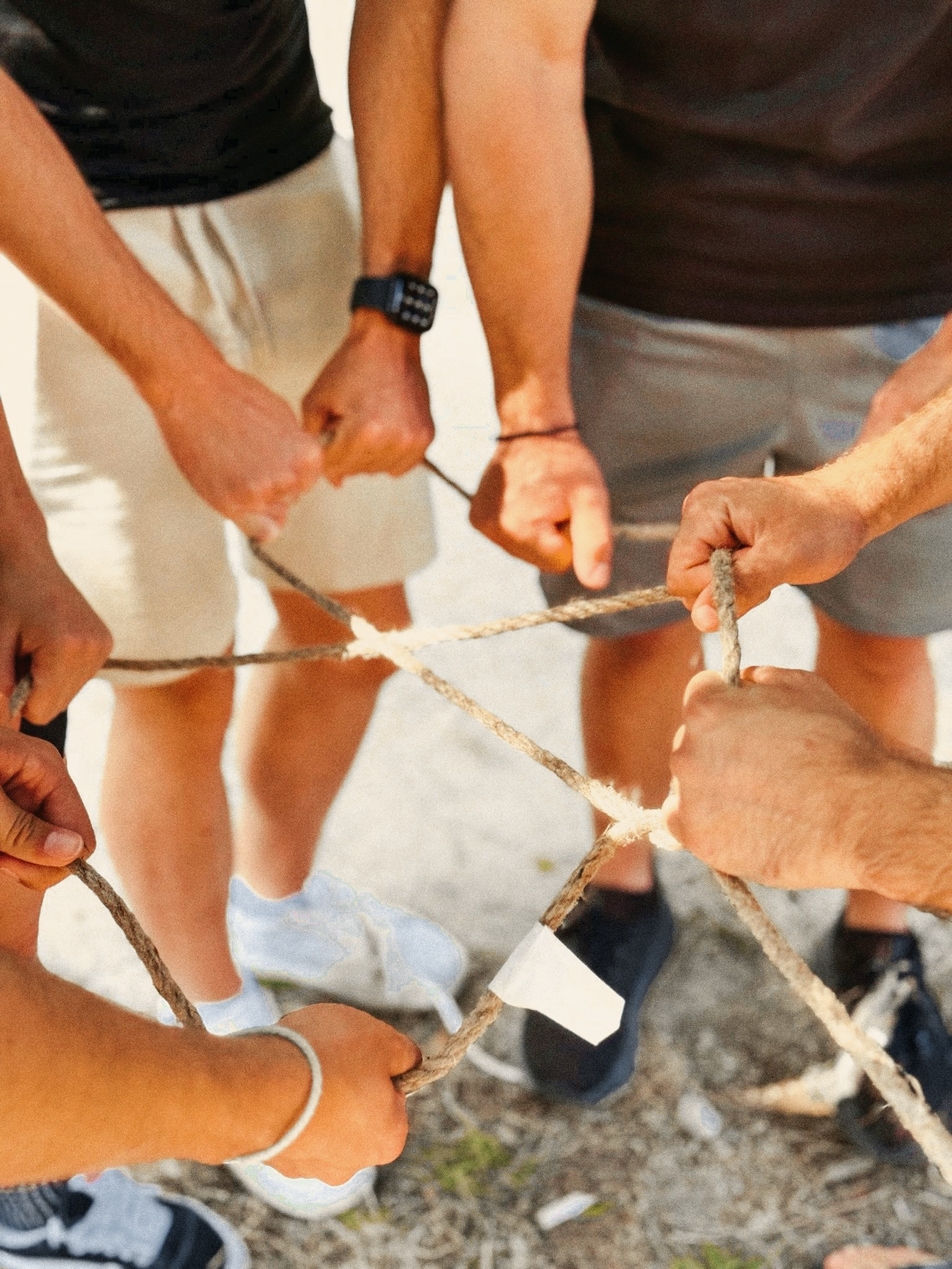
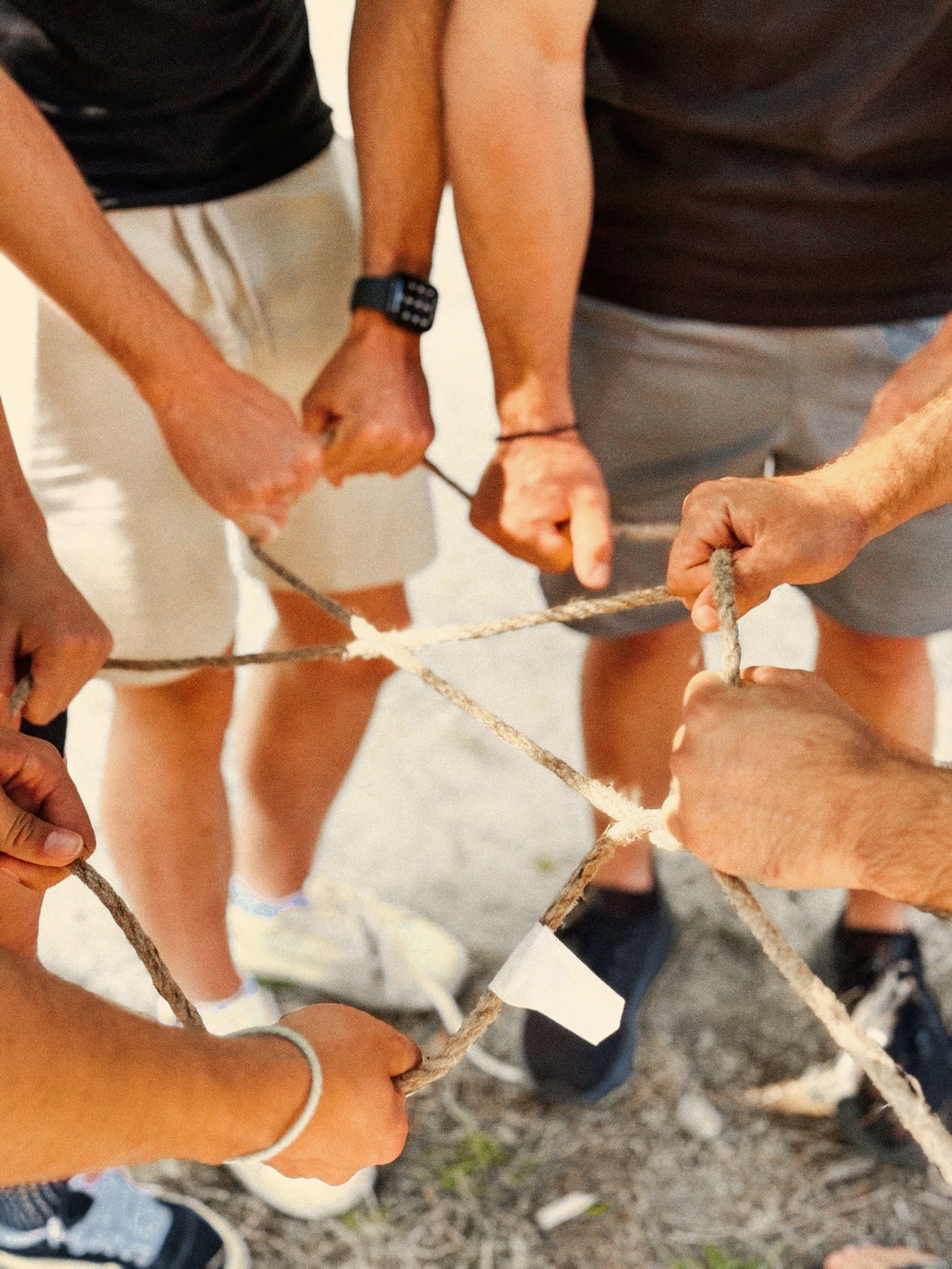
fix(photos): correct the grade's mechanisms, not its strength
Three defects survived the last pass, all found on the built page at
display scale rather than in 1:1 crops. A strength ladder settled that
none of them was an amplitude problem: the fabric contours and the canopy
clumping are both present at 2x, the lowest rung the strength axis has.

- Sky membership saturated at 12.5% chroma, so white fabric in open shade,
  hair and pale walls read as fully sky. Membership gates three moves at
  once, so wherever it flickered across a surface the surface split into
  hard cream and blue camps. The chroma gate now ramps between where those
  surfaces sit and where real sky sits.
- The near-neutral guard's hue unification painted those camps rather than
  containing them, and is removed; its chroma cap and the separate 2.6x
  amplification ceiling collapse into one law with a fixed headroom at the
  neutral end, where a pure ratio inherits the source's own quantisation.
- The split-tone targeted a fixed level, so on a frame whose shadows sit
  below it the move lifted rather than toned — the hero canopy's deepest
  fifth was dragged toward a mid-dark green, raising compression noise into
  view. Both targets now follow the pixel's own luminance.
- The shadow lift moves after the contrast curve, where it is a floor the
  sigmoid cannot pull back through.
- hero-1 carries the set's one per-shot trim, so the About mosaic's centre
  tile sits in the same hour as the six around it.

diff --git a/design/PHOTO-GRADE.md b/design/PHOTO-GRADE.md
@@ -75,10 +75,10 @@ wash and the backdrop is glass at 18%/28px — the grade barely reads there.
 ## The three candidates
 
 All three live as named functions in `scripts/grade-photos.mjs` and share one
-pixel pipeline: white balance → tone curve (lift/gamma/soft shoulder) →
-sigmoid contrast → hue-band moves in HSV (raised-cosine falloff, skin
-protected) → vibrance → split-tone. Each defines a base look plus per-group
-corrections. They are three points of view, not three intensities:
+pixel pipeline: white balance → tone curve (gamma/soft shoulder) → sigmoid
+contrast → black point → hue-band moves in HSV (raised-cosine falloff, skin
+protected) → vibrance → chroma ceiling → split-tone. Each defines a base look
+plus per-group corrections, and one shot additionally carries a trim. They are three points of view, not three intensities:
 
 - **`resinHour`** — the site's own hour of light. Warm highlights toward the
   amber accent, shadows toward pine-brown, greens eased from camera-cyan
@@ -172,8 +172,9 @@ across the outdoor set, taking it from 5× to 1.5× costs about **0.1 ΔE2000**
 and returns **25–38 points** of deep-shadow mass — it was almost pure cost, a
 black point climbing with strength, which does not make a stronger look, only
 a shallower photograph. Below the knee `softStrength` is the identity, so the
-base bake is untouched: strength 1 still reproduces the first bake
-byte-for-byte, verified by comparison against the stored `_grades/base` files.
+strength axis leaves the base look's own parameters alone. (The base *bake*
+is no longer byte-identical with the first one — the mechanism pass below
+changed three things that apply at every strength.)
 
 ### Sky membership is a weight, not a verdict
 
@@ -186,12 +187,10 @@ guard snapped every pixel to one of two hues 172° apart on a `blue0 > 0.5`
 test.
 
 Both are now soft. Membership is one feathered weight, judged on the original
-pixel as before, with a loose chroma gate so a pale sky still counts as
-wholly sky and only a near-neutral falls out of the band; a pixel that is 40%
-sky receives 40% of the sky treatment. The neutral guard weights its hue
-unification by how confidently the pixel sits in its camp, so an ambiguous
-pixel keeps its own hue — at that chroma the hue is invisible either way, and
-the chroma cap has already removed the noise the guard exists to remove.
+pixel as before; a pixel that is 40% sky receives 40% of the sky treatment.
+The chroma gate that decides how much of a pixel is sky was retuned in the
+mechanism pass below — the version written here, which counted anything past
+12.5% chroma as wholly sky, is what turned white fabric into camps.
 
 The guards do not scale — above base strength they tighten:
 
@@ -205,33 +204,86 @@ The guards do not scale — above base strength they tighten:
   saturation scale.
 - Skin: the split-tone backs off faces, and a saturation cap keeps a face
   within a step of what the camera saw.
-- Near-neutrals: chroma is capped near the original's and hue unified
-  toward the warm tint (pale blues toward the sky hue instead), so
-  amplified chroma noise cannot posterize white fabric.
 - Vegetation: hue shift clamped at 1.7× and chroma floored at 0.88 —
   greens stay green.
-- Chroma ceiling: no pixel's chroma may run past 2.6× what the camera saw
-  (plus a hair, so true neutrals keep the warm tint), compressing 4:1 above
-  the knee rather than clipping. 2.6 sits above the vegetation band's
-  measured p99 gain on every image, so the pine greens pass untouched; the
-  3–10× tail beyond it was amplified chroma noise — mottle on flat walls.
-  The deliberate warm pull on neutral interiors survives because it is an
-  affine move toward a fixed tint (its noise gain is below 1): flat-region
-  chroma noise ships at or below the original's on every file.
+- Chroma ceiling: one law, `sat0 + 0.05` opening to a bounded multiple
+  where there is real colour, compressing 4:1 above the knee rather than
+  clipping. It replaced a pair of guards in the mechanism pass below.
 
 Four moves exist only above base strength: the shadow tint drifts from
 warm brown to pine (30° → 105°), the highlight tint deepens into amber
 (46° → 37°), greens sink 12% in luminance toward dusk, and the brightest
 non-sky, non-skin pixels pull toward amber — sunlit foliage going golden.
 
+## Mechanisms, not amplitude — the fourth pass
+
+Three defects survived every measurement above and were found by looking at
+the built page at the size a visitor sees it: contour zones on white fabric,
+dark clumps in the hero canopy, and hero-1 sitting outside its own set in the
+About mosaic. The first two had been invisible because every check to that
+point was run on 1:1 crops in image space, where a gentle zone boundary
+across a sleeve reads as nothing at all.
+
+The obvious response was to lower the strength, and a ladder settled it: at
+2× — the lowest rung the strength axis has — the fabric already shows its
+contour ring and the canopy already shows its lifted, blotchy shadow mass.
+Both defects were therefore in mechanisms rather than in amplitude, and no
+strength was going to fix them. Each was found with a negative control, and
+the first control refuted the leading suspect: baking with the near-neutral
+guard switched off made the fabric **worse**, not better. The guard was
+mitigating something upstream, not causing it.
+
+**Fabric.** Sky membership gates three separate moves — the warm balance
+steps aside for sky, the convergence pull claims it, and the highlight
+split-tone releases it. Its chroma gate saturated at 12.5% chroma, so a white
+shirt in open shade, hair and pale walls all read as fully sky. Tracing one
+scanline across a sleeve, membership swung 0 → 1 → 0 → 1 → 0 between adjacent
+patches of cloth, and the output hue went 38° → 212° → 41° → 212° → 175° with
+it: hard cream and blue zones with green fringes along the boundaries. The
+gate now ramps between where those surfaces sit (2–13% chroma, measured) and
+where real sky sits (22–63%), so it never reaches a verdict in the gap. The
+near-neutral guard's own hue unification — which snapped a pixel toward one
+of two targets 172° apart — painted the camps the gate had split, and is
+gone; what remains is a single chroma ceiling with a fixed headroom at the
+neutral end, which also subsumes the old 2.6× amplification ceiling.
+
+**Canopy.** The shadow split-tone targeted a colour at a *fixed* level
+(v 0.28). On a frame whose shadows sit below that — the hero canopy runs at
+0.03–0.10 — "tone toward" becomes "lift toward": the deepest fifth of the
+frame was dragged a fifth of the way to a mid-dark green, which raised the
+compression noise living down there into view and flattened the shadow's own
+variation onto one colour. Both split-tone targets are now taken at the
+pixel's own luminance, so the move is purely chromatic, which is what a
+split-tone is. Switching the split off entirely was the control: the
+clumping vanished with it.
+
+That change took the black point with it — the shadow lift had been applied
+*before* the contrast curve, and the sigmoid pulled a lifted 0.018 back to
+0.0004; the split-tone's lift had been the only thing holding the floor up.
+The lift now runs after the contrast, where it is a floor nothing can fall
+through, and the clip guard is clean on every file at target strength.
+
+**hero-1.** The grade moves hero-1 exactly as much as it moves the set
+(+9.4 b\* against +9.1), so the gap it arrives with is the gap it keeps — it
+is the only wide vista in a set of close-range scenes, and distance haze
+leaves its land paler and cooler. Global grade plus per-shot trim is the
+normal shape of this work, so hero-1 carries the set's one trim: warmer and
+richer land, sky and water back a step. Measured on the rendered mosaic tile
+below its skyline against the mean of its six neighbours, Δb\* −4.80 → −3.86
+and ΔC\* −6.06 → −5.59; the aggregate whole-frame numbers move less, because
+open sky, lit water and distant haze dominate them and none of those is what
+makes a tile read as a different hour.
+
 ## Measured results (target strength, 5×)
 
-- **Deep-shadow retention** — the fraction of pixels below L 0.12, as a share
-  of the original's own fraction, whole frame: hero-1 92% · hero-2 77% ·
-  hero-3 64% · home-youth 88% · home-training 94% · FAQ 84% · About 84% ·
-  AboutImage1 93% · AboutImage2 97% · Contact 78%. Every file holds at least
-  60%; before the knees, the same set ran 8–66% and hero-2 kept 8%.
-  Shadows warm and shift hue under this grade; they no longer evaporate.
+- **Deep-shadow retention** — the fraction of pixels below L\* 12, as a share
+  of the original's own fraction, whole frame: hero-1 100% · hero-2 94% ·
+  hero-3 85% · home-youth 100% · home-training 101% · FAQ 112% · About 119% ·
+  AboutImage1 98% · AboutImage2 105% · Contact 114%. Before the knees the
+  same set ran 8–66% and hero-2 kept 8%; with the knees it ran 64–97%; the
+  luminance-preserving split-tone closes the rest, because the shadow tint
+  had been the last thing still lifting the black mass. Shadows warm and
+  shift hue under this grade; they do not evaporate and they do not float.
 - **Seams** — hue flips greater than 90° between adjacent pixels whose
   luminance is unchanged (a colour boundary with no light boundary, which is
   what a hard classifier leaves behind), counted per 1000 adjacent pairs in
@@ -242,10 +294,17 @@ non-sky, non-skin pixels pull toward amber — sunlit foliage going golden.
   file whose gold↔blue count rises above its original (0.04 → 0.22 per 1000);
   inspected at 1:1 it is a blue lanyard against sunlit grass — real subject,
   not a seam.
-- Mean ΔE2000 original → graded per image: hero-1 6.9 · hero-2 5.9 ·
-  hero-3 7.3 · home-youth 7.3 · home-training 6.8 · FAQ 7.3 ·
-  About 6.5 · AboutImage1 8.0 · AboutImage2 6.9 · Contact 7.4.
-  Set mean **7.0**, down from 10.2 before the knees.
+
+  This measure passed while the fabric defect was shipping, and it is worth
+  being clear why: it counts *adjacent-pixel* flips, and the zones on a
+  sleeve were tens of pixels wide with soft boundaries. A metric tuned to
+  hard classifier seams cannot see a soft one. What sees it is a crop of the
+  rendered page at the size the visitor reads it.
+- Mean ΔE2000 original → graded per image: hero-1 7.3 · hero-2 4.6 ·
+  hero-3 6.4 · home-youth 6.9 · home-training 7.1 · FAQ 7.0 ·
+  About 6.2 · AboutImage1 7.6 · AboutImage2 6.4 · Contact 7.2.
+  Set mean **6.7**, against 7.0 before the mechanism pass and 10.2 before
+  the knees.
 
   The earlier acceptance window (8–20 per image, set mean ≥ 10) is
   **withdrawn**. It existed to stop the grade being timid, and it did that
@@ -254,11 +313,12 @@ non-sky, non-skin pixels pull toward amber — sunlit foliage going golden.
   lost the most ΔE because they gained back the most shadow. The grade is
   visibly a grade at display scale (see the crops), and no knob was raised
   anywhere to defend the number.
-- Sky: per-image mean hue **211.0°–212.4°** against the 212° target, with
-  within-image circular sd 0.9°–3.4°; the spread of the per-image means
-  across the eight files carrying sky is **0.41°** (0.32° before the
-  feathering — softening membership costs a fraction of a degree of
-  convergence and buys the bokeh transitions).
+- Sky: per-image mean hue over genuine sky pixels lands at **208.7°–212.0°**
+  against the 212° target on six of the seven files carrying any, and the
+  circular spread within each falls under the grade on every one of those
+  six. The seventh is hero-2, at 200.6° — 3.3% of that frame, seen through
+  canopy, and its original was already 198.4°. The tighter chroma gate
+  costs convergence only where there is barely any sky to converge.
 - Highlights: chroma-weighted mean hue of each image's top luminance
   decile lands at **38–44°** — amber on every image.
 - Shadows: green excess (G − (R+B)/2) of the original's bottom luminance
@@ -269,22 +329,24 @@ non-sky, non-skin pixels pull toward amber — sunlit foliage going golden.
   chroma at 100–178% of the original — never below it.
 - Skin: mean skin hue 26.1°–33.5° (human), saturation capped — largest
   rise +0.11 on the coolest original.
-- Chroma ceiling: the population sitting above the knee
-  (`s > 2.6·sat0 + 0.02`, where the guard starts compressing 4:1) fell on
-  every file — Contact 23.9% → 0.35%, FAQ 12.3% → 1.3%, About 12.9% → 2.9%,
-  home-youth 11.1% → 3.9%. The looser white balance is doing most of that.
+- Skin, after the trim: mean skin-band saturation shipped against the
+  original runs 0.74×–1.26× across the ten files. The one file above 1.25 is
+  hero-1, whose trim adds saturation and whose faces are then held exactly
+  at the sanctioned step by the skin cap.
 - Precision: the grade runs in floating point end to end and drops to
   8-bit exactly once, through serpentine Floyd–Steinberg dithering with
   the error measured in linear light — no intermediate lossy step, no
   intermediate rounding. Pre-encode block-boundary structure measures
   b ≈ 1.0 (none) on every file.
-- Per-file, JPEG quality and KB original → shipped: hero-1 q92 803→835 ·
-  hero-2 q92 1130→1216 · hero-3 q92 827→863 · home-youth q92 777→787 ·
-  home-training q95 475→375 · FAQ q95 611→630 · About q92 1920→2589 ·
-  AboutImage1 q92 2349→1867 · AboutImage2 q94 270→580 ·
-  Contact q95 2462→2448. Home payload **4.43 MB / 4.80**, full set
+- Per-file, JPEG quality and KB original → shipped: hero-1 q92 803→839 ·
+  hero-2 q92 1130→1226 · hero-3 q92 827→870 · home-youth q92 777→793 ·
+  home-training q95 475→371 · FAQ q95 611→644 · About q92 1920→2580 ·
+  AboutImage1 q92 2349→1897 · AboutImage2 q93 270→538 ·
+  Contact q95 2462→2433. Home payload **4.48 MB / 4.80**, full set
   **12.48 MB / 12.50**. Dimensions, formats and EXIF orientation
-  unchanged; clip guard clean on every file at every strength.
+  unchanged; clip guard clean on every file at base and target strength.
+  The `max` rung (9×) trips it on five files, which is what that rung is
+  for — it is a reference past shippable, not a candidate.
 - Flat-region fidelity (flattest 128px of each file, mean |luma step|
   across 8px block boundaries, original → shipped): every file within
   ±0.2 codes of its original's own structure or smoother; worst absolute
@@ -295,9 +357,11 @@ non-sky, non-skin pixels pull toward amber — sunlit foliage going golden.
   page is screenshotted twice per position, once as rendered and once with
   the glyphs painted transparent, and the two are diffed — the pixels that
   changed are the glyphs, and the blanked frame gives the ground behind
-  exactly those pixels. Worst photo-backed zone **6.16** (about hero lede,
-  390; 6.66 at 1440 on the FAQ hero headline) against a 4.5 floor. Console
-  clean on all four pages, both viewports.
+  exactly those pixels, sampled at the fully covered core of each glyph
+  rather than its antialiased fringe. Worst photo-backed zone after the
+  regrade **6.76** (about hero lede, 390), best 7.14 (contact hero headline,
+  1440), against a 4.5 floor. Text parity passes on all four pages, and the
+  console is clean on all four plus the review page, both viewports.
 
   Two earlier methods were wrong and are recorded so they are not repeated.
   Sampling the *lightest* pixel in a text box is the worst case only for
@@ -327,6 +391,11 @@ non-sky, non-skin pixels pull toward amber — sunlit foliage going golden.
   to the matching group in `GROUPS` (or a new group with a `wb` correction
   that neutralises its cast first — judge the cast the way the inventory
   table does, by mean R−B), reference it from `/content`, run the script.
+- A shot that will not sit with the others once it is grouped correctly gets
+  an entry in `TRIMS` — `wb`, `sat`, `contrast` and `skySat`, applied on top
+  of its group. Size it against the frames it is printed beside, on the
+  rendered page, not against its own original; the group correction is about
+  the shot, the trim is about the company it keeps.
 - Screening changes: `--grade=<name> --out=<dir> --width=520` renders any
   candidate at preview size without touching the live files.
 - The review page at `/grade-review` (unlinked) shows every photograph as
